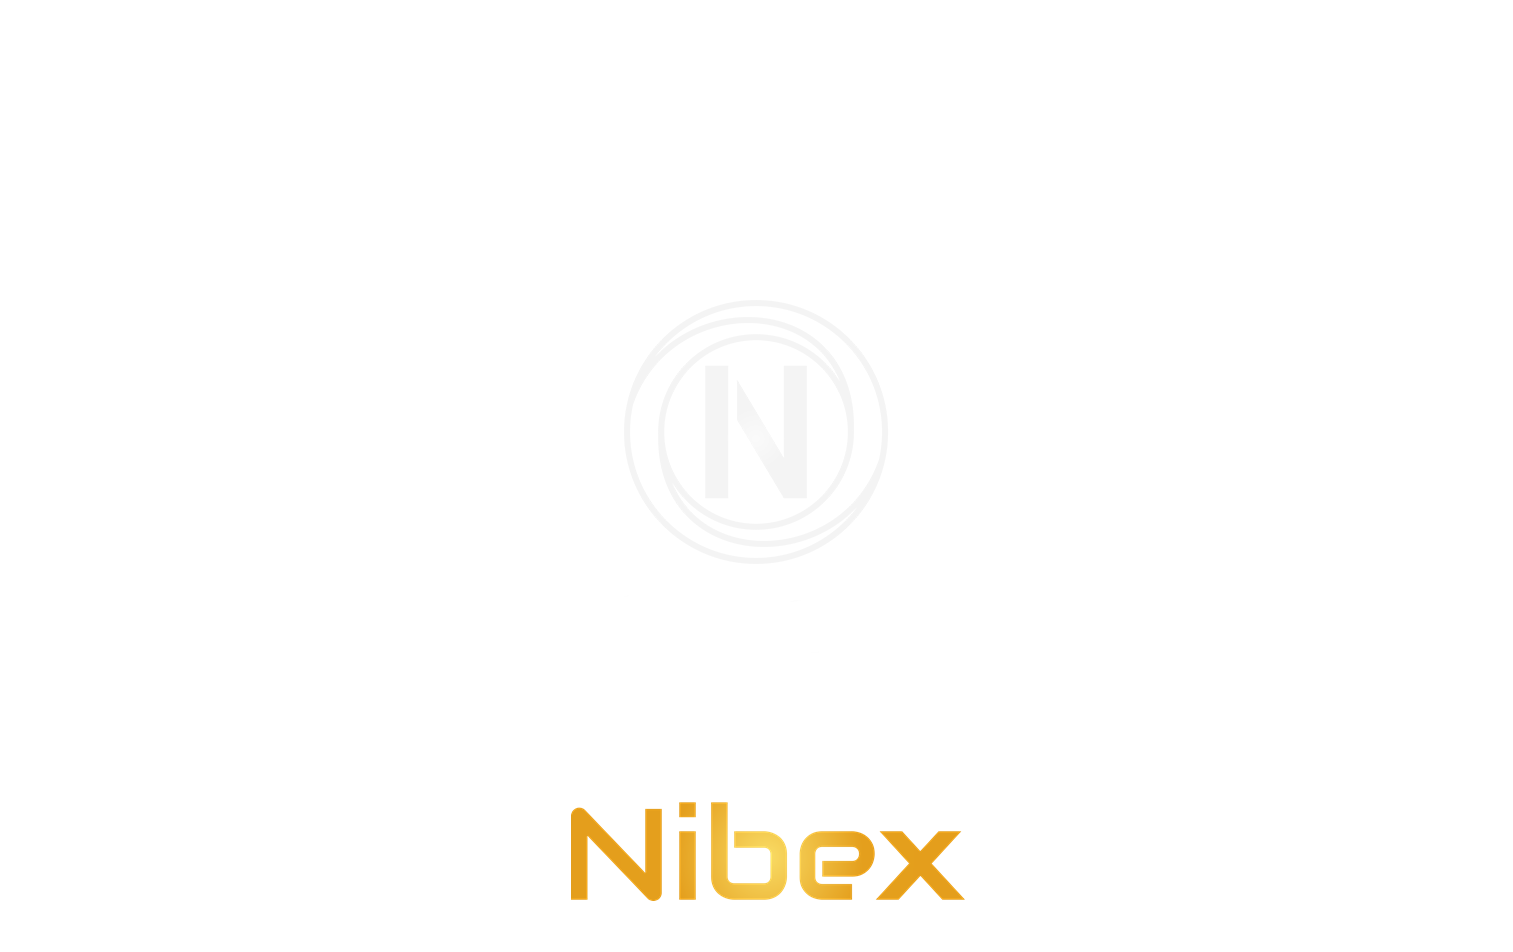
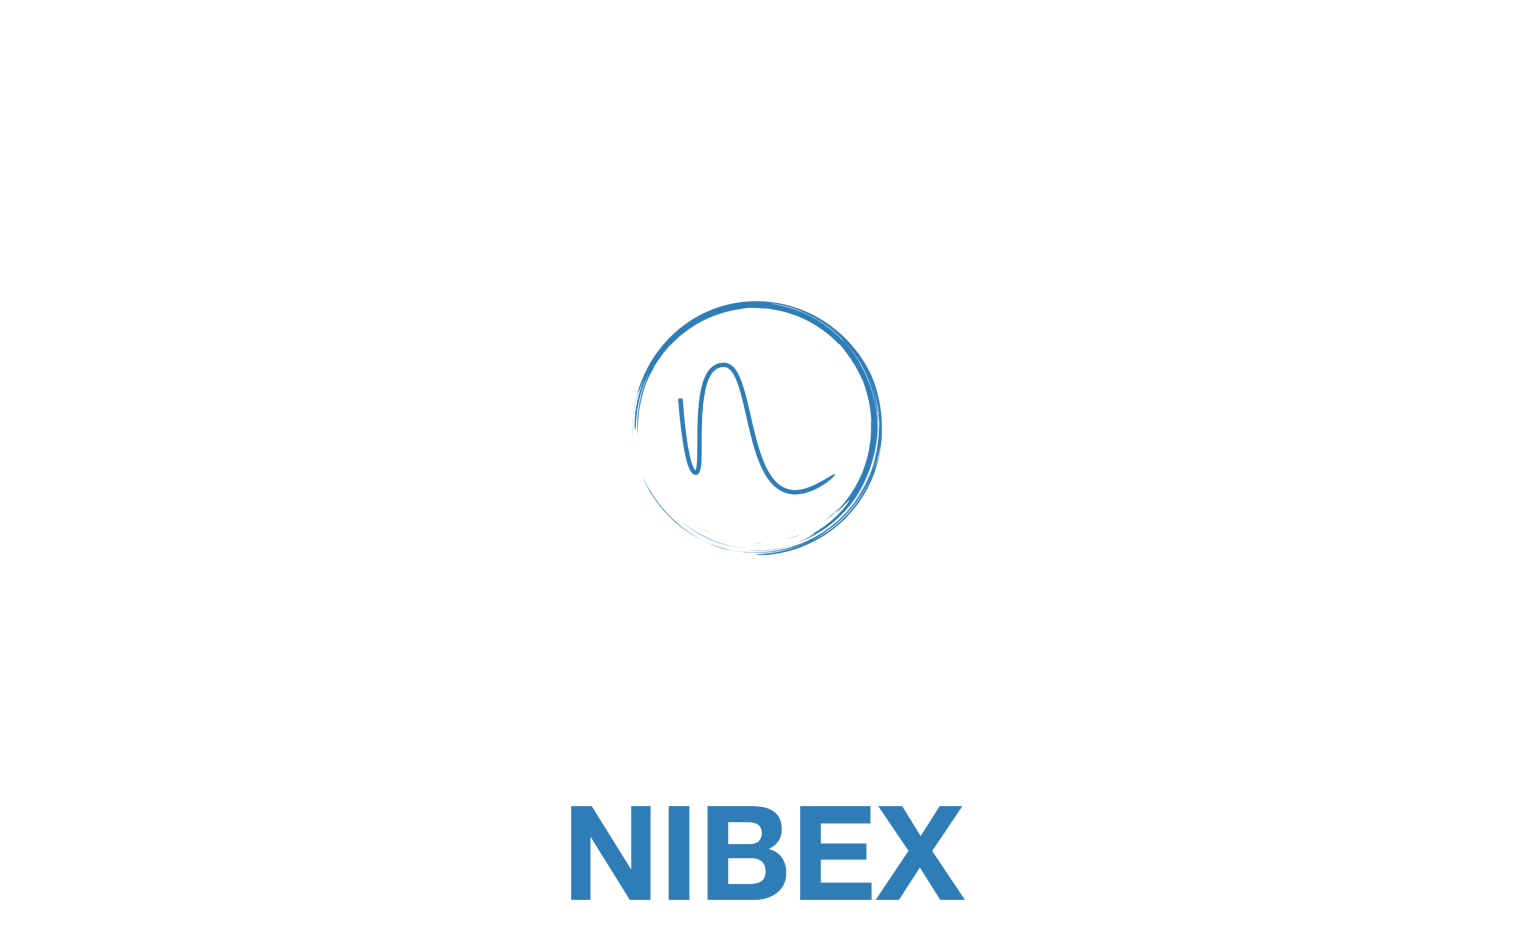
Add new graphics, Change version number

diff --git a/src/qt/res/css/default.css b/src/qt/res/css/default.css
@@ -46,14 +46,14 @@ color:#333;
 }
 
 QToolBar {
-background-color:#E49E1C;
+background-color:#2FA2DB;
 border:0px solid #000;
 padding:0;
 margin:0;
 }
 
 QToolBar > QToolButton {
-background-color:#E49E1C;
+background-color:#2FA2DB;
 border:0px solid #333;
 min-height:2.5em;
 padding: 0em 1em;
@@ -79,7 +79,7 @@ background-color:transparent;
 }
 
 QProgressBar::chunk {
-background-color:#E49E1C;
+background-color:#2FA2DB;
 width: 20px;
 }
 
@@ -163,7 +163,7 @@ background-color:#f2f2f2;
 /****************************************************************************************/
 
 QPushButton { /* Global Button Style */
-background-color:qlineargradient(x1: 0, y1: 0, x2: 0, y2: 1, stop: .01 #E49E1C, stop: .1 #E49E1C, stop: .95 #E49E1C, stop: 1 #E49E1C);
+background-color:qlineargradient(x1: 0, y1: 0, x2: 0, y2: 1, stop: .01 #2FA2DB, stop: .1 #2FA2DB, stop: .95 #2FA2DB, stop: 1 #2FA2DB);
 border:0;
 border-radius:3px;
 color:#ffffff;
@@ -201,7 +201,7 @@ background:#f2f2f2;
 }
 
 QComboBox:editable {
-background: #E49E1C;
+background: #2FA2DB;
 color:#616161;
 border:0px solid transparent;
 }
@@ -300,7 +300,7 @@ outline:0;
 
 QHeaderView::section { /* Table Header Sections */
 qproperty-alignment:center;
-background-color:qlineargradient(x1: 0, y1: 0, x2: 0, y2: 0.25, stop: 0 #E49E1C, stop: 1 #E49E1C);
+background-color:qlineargradient(x1: 0, y1: 0, x2: 0, y2: 0.25, stop: 0 #2FA2DB, stop: 1 #2FA2DB);
 color:#fff;
 min-height:25px;
 font-weight:bold;
@@ -734,7 +734,7 @@ min-width:180px;
 }
 
 QDialog#RPCConsole QWidget#tab_peers  QLabel#peerHeading { /* Peers Info Header */
-color:#E49E1C;
+color:#2FA2DB;
 }
 
 QDialog#RPCConsole QTableView#peerWidget::item { /* Peers Table Items */
@@ -766,7 +766,7 @@ background-color:#00ff00;
 }
 
 QDialog#RPCConsole .QGroupBox #line_2 { /* Network Out Line */
-background:#E49E1C;
+background:#2FA2DB;
 }
 
 /**************************** HELP MENU *************************************************/
@@ -838,7 +838,7 @@ margin-left:16px;
 QWidget .QFrame#frame .QLabel#labelBalanceText { /* Available Balance Label */
 qproperty-alignment: 'AlignVCenter | AlignRight';
 min-width:160px;
-background-color:#E49E1C;
+background-color:#2FA2DB;
 color:#ffffff;
 margin-right:5px;
 padding-right:5px;
@@ -851,7 +851,7 @@ QWidget .QFrame#frame .QLabel#labelBalance { /* Available Balance */
 qproperty-alignment: 'AlignVCenter | AlignLeft';
 font-size:12px;
 font-weight:bold;
-color:#E49E1C;
+color:#2FA2DB;
 margin-left:0px;
 }
 
@@ -942,7 +942,7 @@ qproperty-geometry: rect(10 0 431 35);
 QWidget .QFrame#frameObfuscation .QLabel#label_2 { /* Obfuscation Header */
 qproperty-alignment: 'AlignVCenter | AlignRight';
 min-width:160px;
-background-color:#E49E1C;
+background-color:#2FA2DB;
 color:#fff;
 margin-right:5px;
 padding-right:5px;
@@ -1124,7 +1124,7 @@ border:1px solid #9e9e9e;
 
 QWidget .QFrame#frame_2 .QLabel#label_4 { /* Recent Transactions Label */
 min-width:180px;
-color:#E49E1C;
+color:#2FA2DB;
 margin-left:67px;
 margin-top:83px;
 margin-right:5px;
@@ -1172,7 +1172,7 @@ min-height:25px;
 }
 
 QDialog#SendCoinsDialog .QFrame#frameCoinControl .QLabel#labelCoinControlFeatures { /* Coin Control Header */
-color:#E49E1C;
+color:#2FA2DB;
 font-weight:bold;
 font-size:14px;
 }
@@ -1292,7 +1292,7 @@ min-height:27px;
 /**************************** SEND COINS ENTRY ******************************************/
 
 QStackedWidget#SendCoinsEntry .QFrame#SendCoins > .QLabel { /* Send Coin Entry Labels */
-background-color:#E49E1C;
+background-color:#2FA2DB;
 min-width:102px;
 font-weight:bold;
 font-size:11px;
@@ -1304,7 +1304,7 @@ padding-right:5px;
 
 
 QStackedWidget#SendCoinsEntry .QFrame#SendCoins .QLabel#amountLabel {
-background-color:#E49E1C;
+background-color:#2FA2DB;
 }
 
 QStackedWidget#SendCoinsEntry .QValidatedLineEdit#payTo { /* Pay To Input Field */
@@ -1480,7 +1480,7 @@ background-color:#fff;
 }
 
 QWidget#ReceiveCoinsDialog .QFrame#frame2 .QLabel#label_2 { /* Label Label */
-background-color:#E49E1C;
+background-color:#2FA2DB;
 min-width:102px;
 color:#ffffff;
 font-weight:bold;
@@ -1489,7 +1489,7 @@ padding-right:5px;
 }
 
 QWidget#ReceiveCoinsDialog .QFrame#frame2 .QLabel#label { /* Amount Label */
-background-color:#E49E1C;
+background-color:#2FA2DB;
 min-width:102px;
 color:#ffffff;
 font-weight:bold;
@@ -1498,7 +1498,7 @@ padding-right:5px;
 }
 
 QWidget#ReceiveCoinsDialog .QFrame#frame2 .QLabel#label_3 { /* Message Label */
-background-color:#E49E1C;
+background-color:#2FA2DB;
 min-width:102px;
 color:#ffffff;
 font-weight:bold;
@@ -1558,7 +1558,7 @@ border:1px solid #9e9e9e;
 }
 
 QWidget#ReceiveCoinsDialog .QFrame#frame .QLabel#label_6 { /* Requested Payments History Label */
-color:#E49E1C;
+color:#2FA2DB;
 font-weight:bold;
 font-size:14px;
 }

diff --git a/src/qt/splashscreen.cpp b/src/qt/splashscreen.cpp
@@ -33,9 +33,15 @@ SplashScreen::SplashScreen(Qt::WindowFlags f, const NetworkStyle* networkStyle) 
 
     float fontFactor = 1.0;
 
+    std::string version = FormatFullVersion();
+    int found = version.find("-");
+    if (found!=std::string::npos) {
+        version = version.substr(0, found);
+    }
+
     // define text to place
     QString titleText = tr("Nibex");
-    QString versionText = QString(tr("Version %1")).arg(QString::fromStdString(FormatFullVersion()));
+    QString versionText = QString(tr("Version %1")).arg(QString::fromStdString(version));
     QString copyrightTextBtc = QChar(0xA9) + QString(" 2009-%1 ").arg(COPYRIGHT_YEAR) + QString(tr("The Bitcoin Core developers"));
     QString copyrightTextDash = QChar(0xA9) + QString(" 2014-%1 ").arg(COPYRIGHT_YEAR) + QString(tr("The Dash Core developers"));
     QString copyrightTextPIVX = QChar(0xA9) + QString(" 2015-%1 ").arg(COPYRIGHT_YEAR) + QString(tr("The PIVX Core developers"));

diff --git a/contrib/seeds/makeseeds.py b/contrib/seeds/makeseeds.py
@@ -26,7 +26,7 @@ import collections
 PATTERN_IPV4 = re.compile(r"^((\d{1,3})\.(\d{1,3})\.(\d{1,3})\.(\d{1,3})):(\d+)$")
 PATTERN_IPV6 = re.compile(r"^\[([0-9a-z:]+)\]:(\d+)$")
 PATTERN_ONION = re.compile(r"^([abcdefghijklmnopqrstuvwxyz234567]{16}\.onion):(\d+)$")
-PATTERN_AGENT = re.compile(r"^(/NIBEXCore:2.3.(0|1|99)/)$")
+PATTERN_AGENT = re.compile(r"^(/NIBEXCore:3.0.(0|1|99)/)$")
 
 def parseline(line):
     sline = line.split()

diff --git a/src/clientversion.h b/src/clientversion.h
@@ -14,8 +14,8 @@
  */
 
 //! These need to be macros, as clientversion.cpp's and nibex*-res.rc's voodoo requires it
-#define CLIENT_VERSION_MAJOR 2
-#define CLIENT_VERSION_MINOR 3
+#define CLIENT_VERSION_MAJOR 3
+#define CLIENT_VERSION_MINOR 0
 #define CLIENT_VERSION_REVISION 0
 #define CLIENT_VERSION_BUILD 0
 

diff --git a/src/version.h b/src/version.h
@@ -12,7 +12,7 @@
  * network protocol versioning
  */
 
-static const int PROTOCOL_VERSION = 70910;
+static const int PROTOCOL_VERSION = 71010;
 
 //! initial proto version, to be increased after version/verack negotiation
 static const int INIT_PROTO_VERSION = 209;
